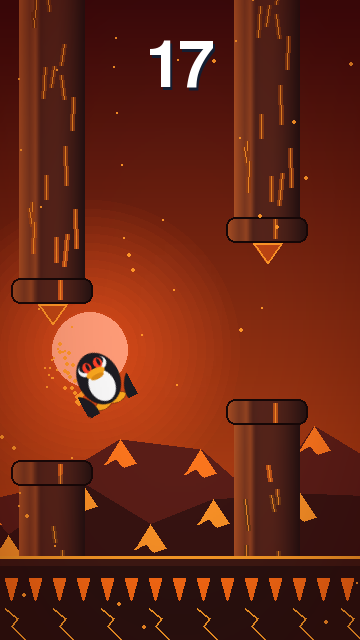
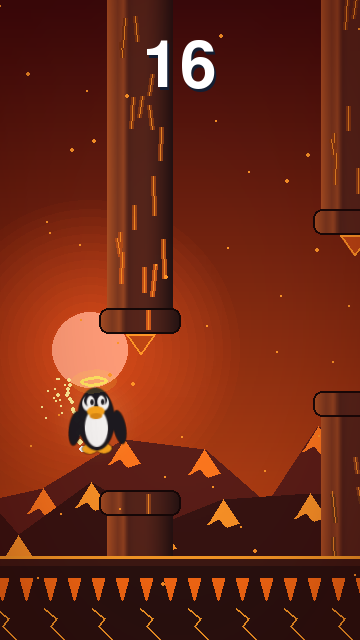
Tux se vuelve angelical a medida que el mundo se vuelve infernal

diff --git a/tuxflap/game.py b/tuxflap/game.py
@@ -26,8 +26,10 @@ CAP_W = 82
 CAP_H = 26
 TUX_X = 96
 TUX_R = 17  # radio de colisión
-PAD = 12  # margen superior del sprite de Tux (cuernos)
+PAD = 12  # margen superior del sprite de Tux
 BOT = 6  # margen inferior (pies colgando)
+XPAD = 14  # margen lateral (alas grandes)
+TUX_W = 54 + 2 * XPAD
 TUX_H = 62 + PAD + BOT
 TUX_OFF = (PAD - BOT) / 2  # el centro del cuerpo no coincide con el de la imagen
 
@@ -49,7 +51,9 @@ LEVELS = (
     dict(name="Apocalipsis", sub="Ya no hay vuelta atrás", dead="Consumado"),
 )
 AMP = (0, 0, 0, 22, 38)  # oscilación vertical de las columnas
-TUX_VARIANT = (0, 0, 1, 2, 3)  # normal, ojos rojos, + cuernos, + aureola
+TUX_FORM = (0, 0, 0, 1, 2)  # sprite: normal, alas blancas, serafín de seis alas
+AURA = ((0, 0), (40, 60), (50, 80), (64, 100), (86, 130))  # radio, opacidad del aura dorada
+HALO = (0, 0, 1, 2, 3)  # nivel de la aureola
 
 # Paletas por nivel
 THEMES = (
@@ -257,26 +261,40 @@ def make_vignette():
     return pygame.transform.smoothscale(s, (W, H))
 
 
-def make_tux(wing=3, variant=0, eyes="open", feet=0):
+def make_tux(wing=3, form=0, eyes="open", feet=0):
     """Tux dibujado con primitivas, 4x supermuestreado.
-    wing: 0 alas arriba .. 5 alas abajo.  variant: 0 normal, 1 ojos rojos, 2+ cuernos (3 = aureola aparte).
+    wing: 0 alas arriba .. 5 alas abajo.
+    form: 0 normal, 1 alas blancas de plumas, 2 serafín de seis alas.
     eyes: open | blink | scared | dead.  feet: 0 recogidos, 1 colgando."""
     S = 4
-    w, h = 54, TUX_H
+    w, h = TUX_W, TUX_H
     big = pygame.Surface((w * S, h * S), pygame.SRCALPHA)
 
     def E(color, rect, width=0):
         x, y, rw, rh = rect
-        pygame.draw.ellipse(big, color, (x * S, (y + PAD) * S, rw * S, rh * S), width * S)
-
-    def P(color, pts):
-        pygame.draw.polygon(big, color, [(x * S, (y + PAD) * S) for x, y in pts])
+        pygame.draw.ellipse(big, color, ((x + XPAD) * S, (y + PAD) * S, rw * S, rh * S), width * S)
 
     def L(color, a, b, wd):
-        pygame.draw.line(big, color, (a[0] * S, (a[1] + PAD) * S), (b[0] * S, (b[1] + PAD) * S), int(wd * S))
+        pygame.draw.line(big, color, ((a[0] + XPAD) * S, (a[1] + PAD) * S), ((b[0] + XPAD) * S, (b[1] + PAD) * S),
+                         int(wd * S))
+
+    def wing_surf(ww, wh, angel):
+        surf = pygame.Surface((ww * S, wh * S), pygame.SRCALPHA)
+        if not angel:
+            pygame.draw.ellipse(surf, (28, 28, 34), surf.get_rect())
+            return surf
+        # plumas superpuestas, de abajo hacia arriba
+        for i, fy in enumerate((0.42, 0.22, 0.0)):
+            r = pygame.Rect(0, int(fy * wh * S), ww * S, int(wh * S * 0.58))
+            pygame.draw.ellipse(surf, (250, 250, 255), r)
+            pygame.draw.ellipse(surf, (176, 196, 226), r, int(1.4 * S))
+        return surf
+
+    def put_wing(cx, cy, surf, ang):
+        r = pygame.transform.rotate(surf, ang)
+        big.blit(r, ((cx + XPAD) * S - r.get_width() // 2, (cy + PAD) * S - r.get_height() // 2))
 
     black, white, orange = (28, 28, 34), (250, 250, 250), (250, 168, 30)
-    eye = (255, 64, 40) if variant >= 1 else white
     if feet == 0:
         E(orange, (10, 52, 18, 9))
         E(orange, (26, 52, 18, 9))
@@ -284,19 +302,19 @@ def make_tux(wing=3, variant=0, eyes="open", feet=0):
         for cx, ang in ((15, 24), (39, -24)):
             fs = pygame.Surface((18 * S, 9 * S), pygame.SRCALPHA)
             pygame.draw.ellipse(fs, orange, fs.get_rect())
-            r = pygame.transform.rotate(fs, ang)
-            big.blit(r, (cx * S - r.get_width() // 2, (PAD + 60) * S - r.get_height() // 2))
+            put_wing(cx, 60, fs, ang)
     k = wing / 5.0
     wy = lerp(-8, 16, k)
-    for sx, sign in ((2, -1), (46, 1)):
-        surf = pygame.Surface((14 * S, 30 * S), pygame.SRCALPHA)
-        pygame.draw.ellipse(surf, black, (0, 0, 14 * S, 30 * S))
-        r = pygame.transform.rotate(surf, sign * lerp(42, -30, k))
-        big.blit(r, (sx * S - (r.get_width() - 14 * S) // 2 - (6 * S if sign < 0 else 0),
-                     (22 + wy + PAD) * S - (r.get_height() - 30 * S) // 2))
-    if variant >= 2:  # cuernos
-        P((190, 24, 24), [(12, 12), (9, -5), (23, 6)])
-        P((190, 24, 24), [(42, 12), (45, -5), (31, 6)])
+    base = lerp(42, -30, k)
+    for cx, sign in ((3, -1), (53, 1)):
+        if form == 0:
+            put_wing(cx, 22 + wy + 15, wing_surf(14, 30, False), sign * base)
+        elif form == 1:
+            put_wing(cx, 22 + wy + 17, wing_surf(18, 36, True), sign * base)
+        else:  # serafín: tres pares
+            put_wing(cx - sign * 1, 22 + wy + 3, wing_surf(14, 28, True), sign * (base + 30))
+            put_wing(cx - sign * 1, 22 + wy + 31, wing_surf(14, 28, True), sign * (base - 32))
+            put_wing(cx, 22 + wy + 17, wing_surf(19, 38, True), sign * base)
     E(black, (6, 4, 42, 54))
     E(white, (14, 22, 26, 33))
     E(white, (12, 11, 12, 13))
@@ -307,21 +325,37 @@ def make_tux(wing=3, variant=0, eyes="open", feet=0):
             E(white, (ex, 11, 9, 11))
             L(black, (ex + 0.5, 17), (ex + 8.5, 17), 2.2)
         elif eyes == "scared":
-            E(eye, (ex - 1, 10, 11, 13))
+            E(white, (ex - 1, 10, 11, 13))
             E(black, (ex + 3.5, 15, 3, 3))
         elif eyes == "dead":
             E(white, (ex, 11, 9, 11))
             L(black, (ex + 1.5, 13), (ex + 7.5, 20), 1.8)
             L(black, (ex + 7.5, 13), (ex + 1.5, 20), 1.8)
         else:
-            E(eye, (ex, 11, 9, 11))
-            if variant >= 1:
-                E(black, (ex + 4, 12, 3, 8))
-            else:
-                E(black, (ex + 4, 14, 4, 5))
+            E(white, (ex, 11, 9, 11))
+            E(black, (ex + 4, 14, 4, 5))
     E(orange, (17, 20, 20, 9))
     E((222, 140, 20), (20, 26, 14, 5))
     return pygame.transform.smoothscale(big, (w, h))
+
+
+def make_aura(r, alpha):
+    s = pygame.Surface((r * 2, r * 2), pygame.SRCALPHA)
+    steps = 16
+    for i in range(steps):
+        rr = int(lerp(r, 6, i / (steps - 1)))
+        pygame.draw.circle(s, (255, 228, 140, int(alpha * ((i + 1) / steps) ** 1.6)), (r, r), rr)
+    return s
+
+
+def make_rays(size=200, n=12):
+    s = pygame.Surface((size, size), pygame.SRCALPHA)
+    c = size / 2
+    for i in range(n):
+        a = i * 2 * math.pi / n
+        pts = [(c, c)] + [(c + math.cos(a + d) * c, c + math.sin(a + d) * c) for d in (-0.07, 0.07)]
+        pygame.draw.polygon(s, (255, 240, 170, 70), pts)
+    return s
 
 
 def make_icon_surface(size=128):
@@ -329,7 +363,7 @@ def make_icon_surface(size=128):
     s = pygame.Surface((size, size), pygame.SRCALPHA)
     pygame.draw.circle(s, (120, 190, 232), (size // 2, size // 2), size // 2)
     th = int(size * 0.72)
-    t = pygame.transform.smoothscale(t, (int(54 * th / TUX_H), th))
+    t = pygame.transform.smoothscale(t, (int(TUX_W * th / TUX_H), th))
     s.blit(t, ((size - t.get_width()) // 2, (size - t.get_height()) // 2))
     return s
 
@@ -395,9 +429,11 @@ class Game:
 
         self.assets = [make_assets(t) for t in THEMES]
         self.tux_cache = {}
-        self.warm = [(k, v, e, f) for v in range(4) for e in ("open", "blink", "scared", "dead")
+        self.warm = [(k, v, e, f) for v in range(3) for e in ("open", "blink", "scared", "dead")
                      for f in (0, 1) for k in range(6)]
         self.vignette = make_vignette()
+        self.auras = [make_aura(r, a) if r else None for r, a in AURA]
+        self.rays = make_rays()
         self.flash_surf = pygame.Surface((W, H))
         self.flash_surf.fill((255, 255, 255))
         self.font_big = pygame.font.Font(None, 96)
@@ -489,6 +525,10 @@ class Game:
             for _ in range(3):
                 self.puffs.append([TUX_X - 10, self.y + 8, random.uniform(-80, -25), random.uniform(30, 90),
                                    0.32, 0.32, (255, 255, 255), 3, 0.0, "p"])
+            if TUX_FORM[self.lvl] >= 1:
+                for _ in range(2):
+                    self.puffs.append([TUX_X - 14, self.y + 4, random.uniform(-60, -20), random.uniform(-20, 20), 0.9, 0.9,
+                                       (240, 244, 255), 3, 90.0, "f"])
             self._play("flap")
 
     def _play(self, name):
@@ -502,6 +542,9 @@ class Game:
             self.prev, self.lvl, self.mix = self.lvl, new, 0.0
             self.banner_t = 3.4
             self._play("level")
+            for _ in range(24):
+                self.puffs.append([TUX_X, self.y, random.uniform(-140, 140), random.uniform(-150, 40), 0.9, 0.9,
+                                   (255, 232, 150), 3, -30.0, "p"])
             if new >= 2:
                 self.strike(bolt=False)
 
@@ -713,7 +756,7 @@ class Game:
             self.pipes.pop(0)
             self._add_pipe(self.pipes[-1][0] + BASE_SPACING + 15 * self.lvl)
 
-        if L >= 2:  # estela de brasas
+        if L >= 1:  # estela de destellos dorados
             self.trail.append([TUX_X - 12, self.y + random.uniform(-2, 8), -self.speed * 0.4 + random.uniform(-20, 20),
                                random.uniform(-20, 40), 0.5])
 
@@ -793,10 +836,19 @@ class Game:
             pygame.draw.line(c, (255, 220, 140), (mx, my), (mx - vx * 0.04, my - vy * 0.04), 2)
             pygame.draw.circle(c, (255, 250, 220), (int(mx), int(my)), 3)
 
-        tcol = ((255, 150, 40), (255, 150, 40), (255, 150, 40), (255, 70, 50), (255, 210, 90))[L]
+        tcol = (255, 236, 150) if L < 4 else (255, 250, 215)
         for x, y, _, _, life in self.trail:
             pygame.draw.circle(c, tcol, (int(x), int(y)), 1 + int(life * 5))
 
+        if AURA[L][0]:
+            pulse = 0.75 + 0.25 * math.sin(self.t * 3)
+            if L >= 4:
+                r = pygame.transform.rotate(self.rays, self.t * 18)
+                r.set_alpha(int(255 * pulse))
+                c.blit(r, r.get_rect(center=(TUX_X, self.y)))
+            au = self.auras[L]
+            au.set_alpha(int(255 * pulse))
+            c.blit(au, au.get_rect(center=(TUX_X, self.y)))
         for x, y, _, _, life, maxl, pcol, sz, _, kind in self.puffs:
             f = life / maxl
             if kind == "p":
@@ -805,7 +857,7 @@ class Game:
                 r = (1 - f) * 14
                 pygame.draw.line(c, pcol, (x, y), (x + math.cos(r) * 6, y + math.sin(r) * 3), 3)
 
-        var = TUX_VARIANT[L]
+        form = TUX_FORM[L]
         playing = self.state == PLAYING
         if self.state == DEAD:
             eyes = "dead"
@@ -816,7 +868,7 @@ class Game:
         else:
             eyes = "open"
         feet = 1 if (self.state == DEAD or (playing and self.vy > 150)) else 0
-        img = self.tux_img(int(round(self.wing_k * 5)), var, eyes, feet)
+        img = self.tux_img(int(round(self.wing_k * 5)), form, eyes, feet)
         fall = min(1.0, max(0.0, (self.vy - 300) / 400)) if playing else 0.0
         sx = 1 - 0.14 * self.sq - 0.07 * fall
         sy = 1 + 0.20 * self.sq + 0.10 * fall
@@ -825,8 +877,8 @@ class Game:
         img = pygame.transform.rotozoom(img, -self.ang, 1.0)
         c.blit(img, img.get_rect(center=(TUX_X, self.y - TUX_OFF)))
         th = math.radians(self.ang)
-        if var >= 3:
-            self._draw_halo(c, th)
+        if HALO[L]:
+            self._draw_halo(c, th, HALO[L])
         if self.state == DEAD and self.landed:
             self._draw_stars(c, th)
 
@@ -865,12 +917,16 @@ class Game:
             out.blit(c, (random.randint(-m, m), random.randint(-m, m)))
         self._present(out)
 
-    def _draw_halo(self, c, th):
-        d = 38 + 3 * math.sin(self.t * 4)
+    def _draw_halo(self, c, th, level):
+        d = 34 + 3 * math.sin(self.t * 4)
         pulse = 0.6 + 0.4 * math.sin(self.t * 6)
-        s = pygame.Surface((46, 24), pygame.SRCALPHA)
-        pygame.draw.ellipse(s, (255, 214, 64, int(80 * pulse)), (0, 0, 46, 24))
-        pygame.draw.ellipse(s, (255, 214, 64), (9, 7, 28, 10), 3)
+        rw, rh = ((28, 10), (34, 12), (42, 15))[level - 1]
+        s = pygame.Surface((rw + 18, rh + 14), pygame.SRCALPHA)
+        cx, cy = s.get_width() // 2, s.get_height() // 2
+        pygame.draw.ellipse(s, (255, 214, 64, int((70 + 30 * level) * pulse)), s.get_rect())
+        pygame.draw.ellipse(s, (255, 226, 96), (cx - rw // 2, cy - rh // 2, rw, rh), 3)
+        if level >= 2:
+            pygame.draw.ellipse(s, (255, 248, 200), (cx - rw // 2 + 3, cy - rh // 2 + 2, rw - 6, rh - 4), 1)
         r = pygame.transform.rotate(s, -self.ang)
         c.blit(r, r.get_rect(center=(TUX_X + d * math.sin(th), self.y - d * math.cos(th))))
 

diff --git a/README.md b/README.md
@@ -8,8 +8,8 @@ pero también se juega en escritorio.
 - **Tocar / clic / Espacio / ↑** → aletear · **F11** → pantalla completa · **Esc** → salir
 - Récord guardado en `~/.local/share/tuxflap/score.json` (en Flatpak, dentro de `~/.var/app/<id>/`)
 - **El mundo muta con tu puntaje:** Edén de Hielo (0) → El Deshielo (8) → Plaga de Fuego (16) →
-  Langostas y Relámpagos (26) → Apocalipsis (38). Cambian cielo, columnas, suelo, clima y hasta Tux
-  (ojos rojos, cuernos, aureola). Además sube la velocidad, el hueco se estrecha y las columnas se mueven.
+  Langostas y Relámpagos (26) → Apocalipsis (38). Cambian cielo, columnas, suelo, clima y Tux se vuelve cada vez más angelical
+  (aura dorada, aureola, alas blancas y, al final, un serafín de seis alas con rayos de luz). Además sube la velocidad, el hueco se estrecha y las columnas se mueven.
 - Tux está animado: aleteo en 6 posiciones, squash & stretch, parpadeo, pies que cuelgan al caer,
   cara de susto en picada, plumas y polvo, y una muerte con vueltas, rebote y estrellitas.
 - Todos los gráficos se dibujan por código: sin imágenes de terceros
